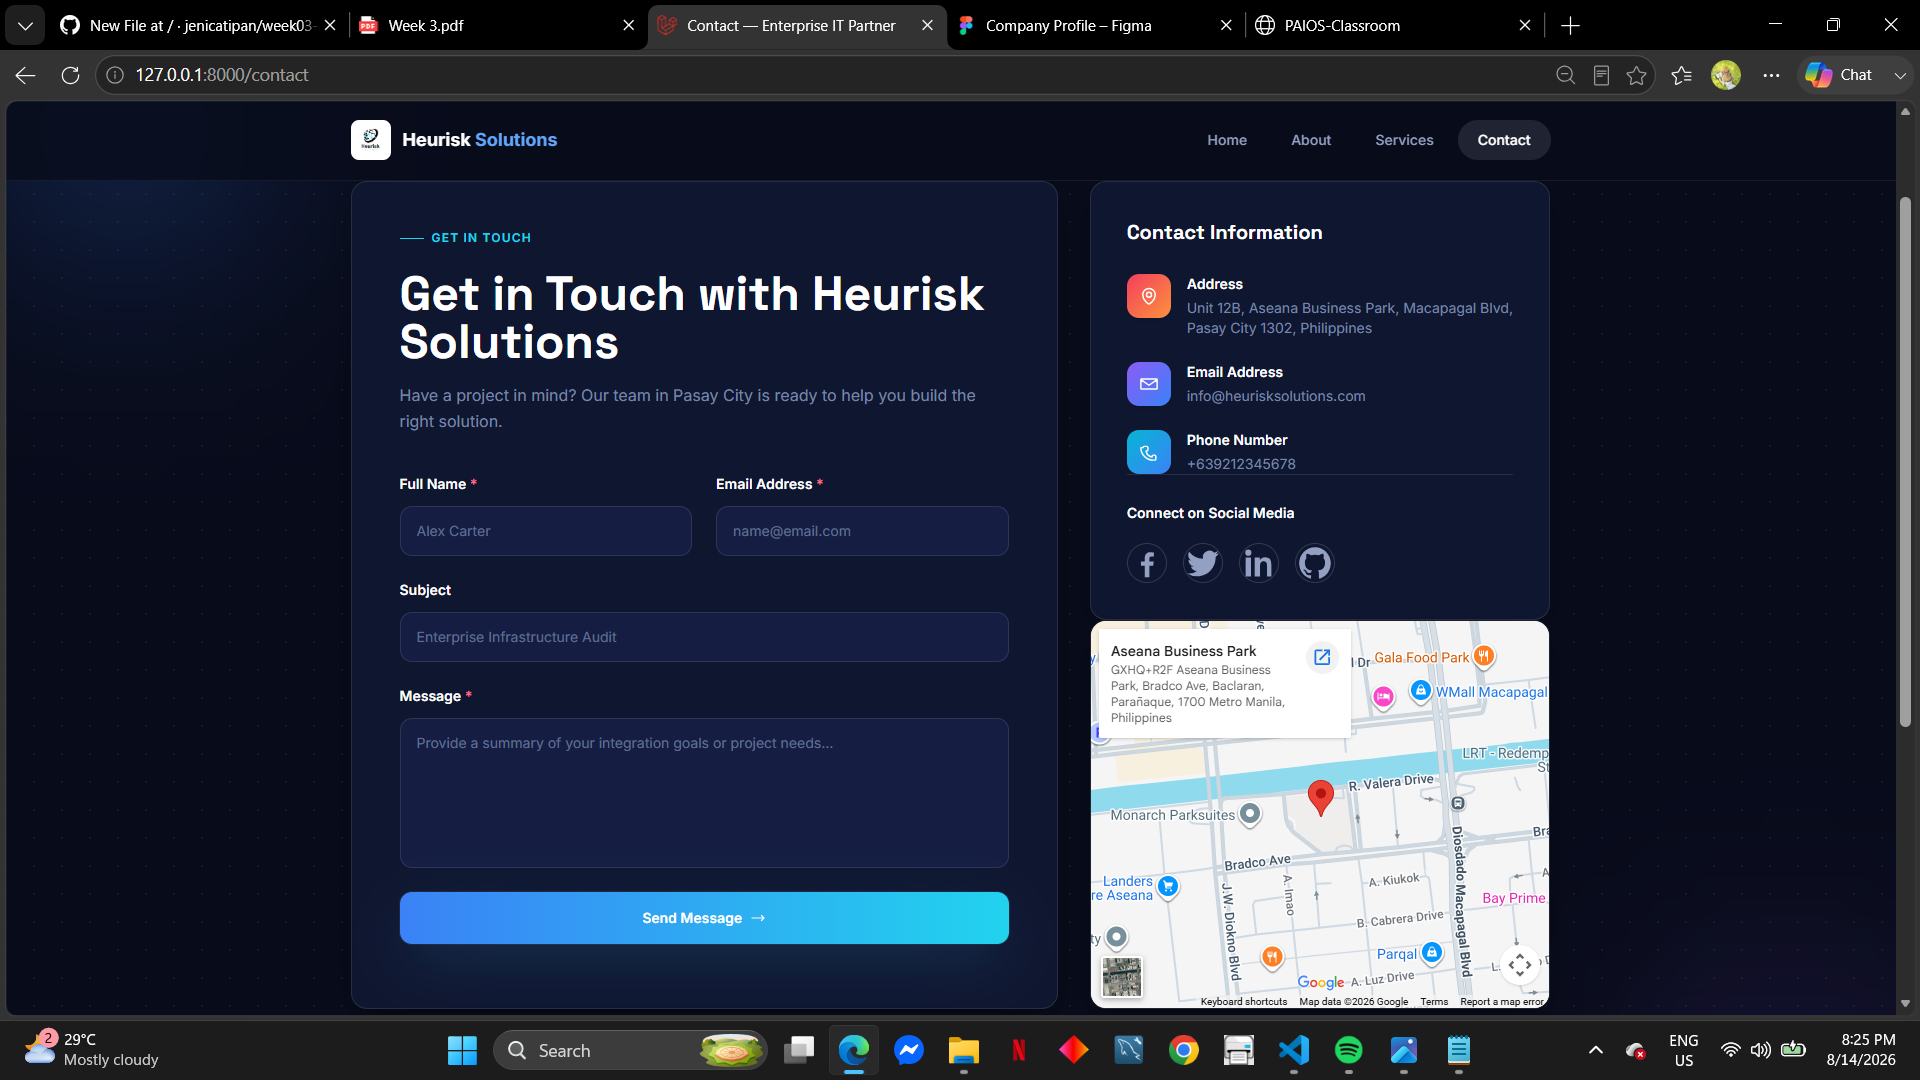
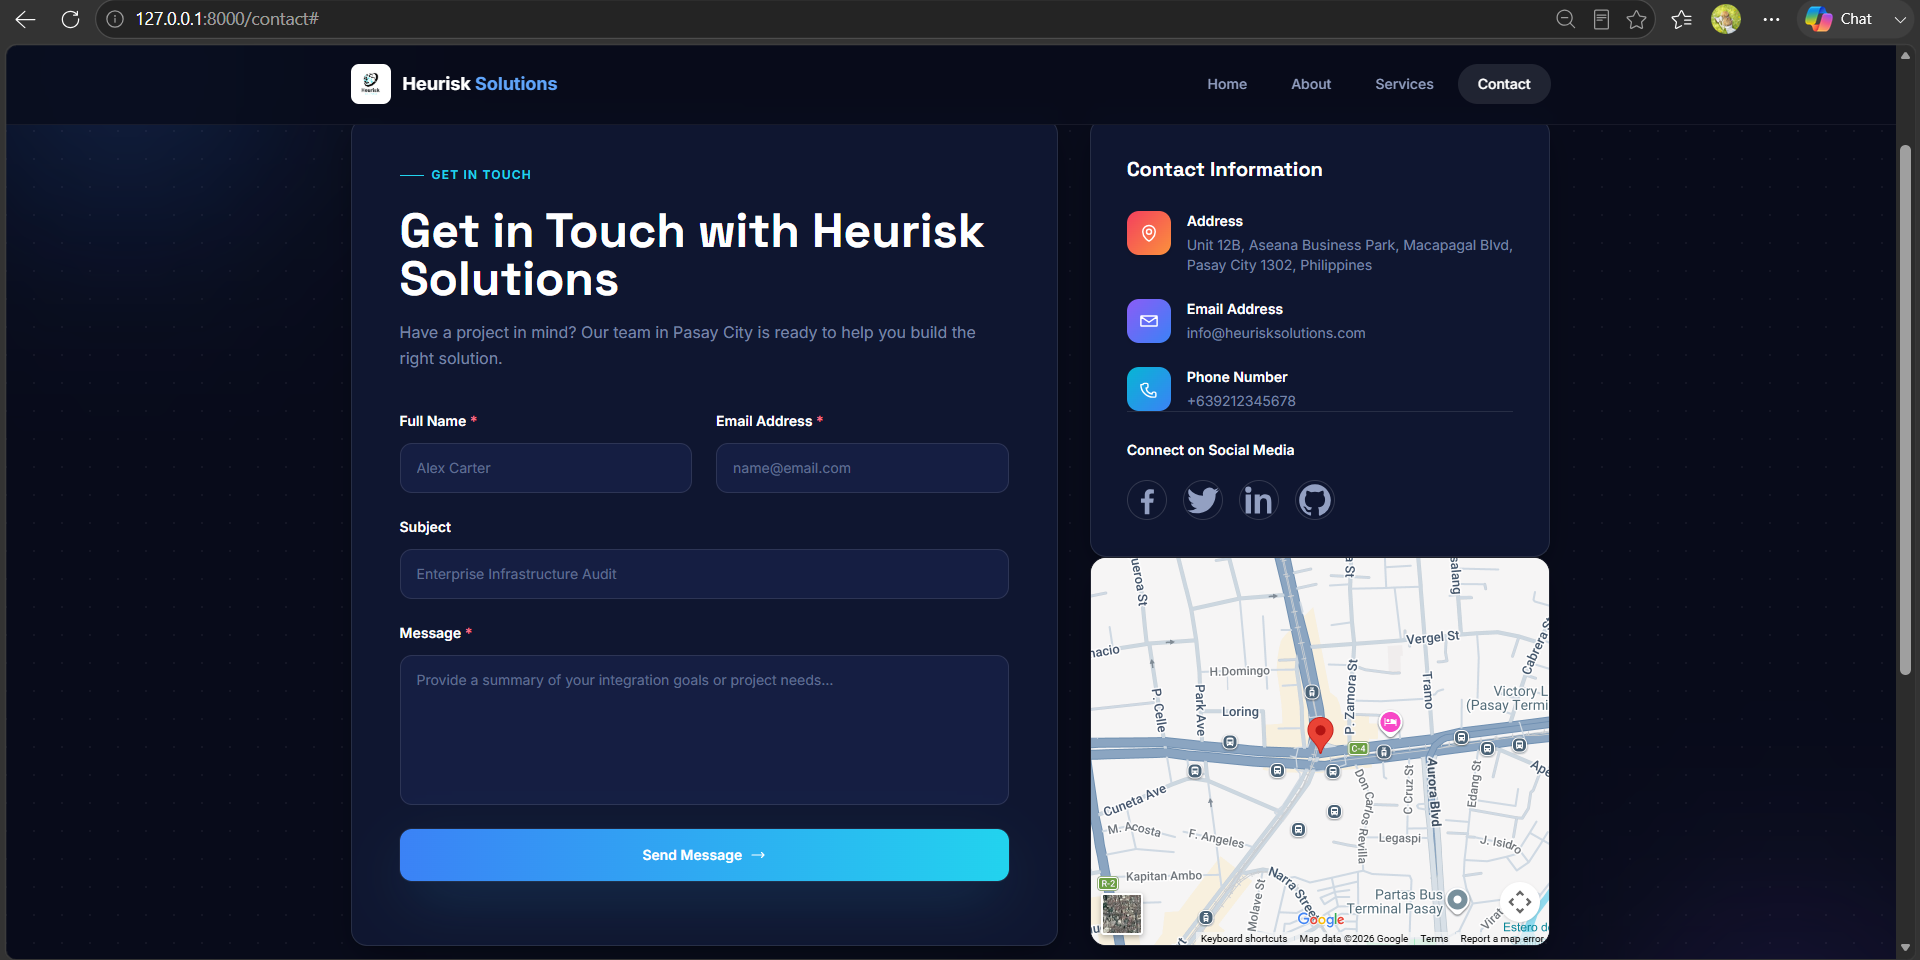
fix screenshots

diff --git a/README.md b/README.md
@@ -4,7 +4,7 @@
 
 ### What is a Company Profile Website?
 
-A company profile website is an overview of the business. It is used to introduce the business to potential clients  
+A company profile website is an overview of the business. It is used to introduce the business to potential clients.
 
 ### Why businesses need one?
 
@@ -91,11 +91,11 @@ Instead of creating the same HTML structure for every page, individual pages can
 
 resources/views/layouts/app.blade.php
 
-<html>
-<head>
+    <html>
+    <head>
     <title>Heurisk Solutions</title>
-</head>
-<body>
+    </head>
+    <body>
 
     <nav>
         Navigation Bar
@@ -107,8 +107,8 @@ resources/views/layouts/app.blade.php
         Footer
     </footer>
 
-</body>
-</html>
+    </body>
+    </html>
 
 ### Blade Components 
 
@@ -122,9 +122,9 @@ resources/views/components/button.blade.php
 
 The component can then be used with:
 
-<x-button>
-    Submit
-</x-button>
+    <x-button>
+        Submit
+    </x-button>
 
 Blade component tags use the x- prefix followed by the component name.
 
@@ -189,37 +189,14 @@ Contains the application's settings and configuration files.
 
 ![Homepage](screenshots/home-page.png)
 
-![Homepage](screenshots/home-page2.png)
-
-![Homepage](screenshots/home-page3.png)
-
 ### About Page
 
 ![About Page](screenshots/about-page.png)
-
-![About Page](screenshots/about-page1.png)
-
-![About Page](screenshots/about-page2.png)
-
-![About Page](screenshots/about-page3.png)
-
-![About Page](screenshots/about-page4.png)
-
-![About Page](screenshots/about-page5.png)
-
-![About Page](screenshots/about-page6.png)
-
-![About Page](screenshots/about-page7.png)
 
 ### Services Page
 
 ![Services Page](screenshots/services-page.png)
 
-![Services Page](screenshots/services-page1.png)
-
-![Services Page](screenshots/services-page2.png)
-
-![Services Page](screenshots/services-page3.png)
 
 ### Contact Page
 
